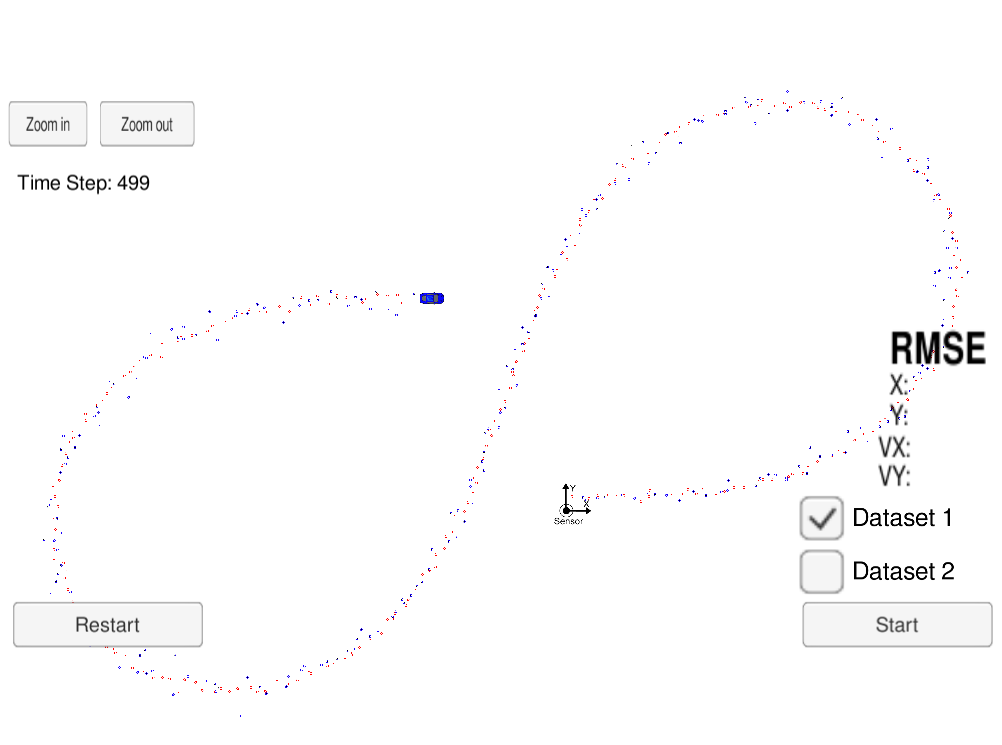
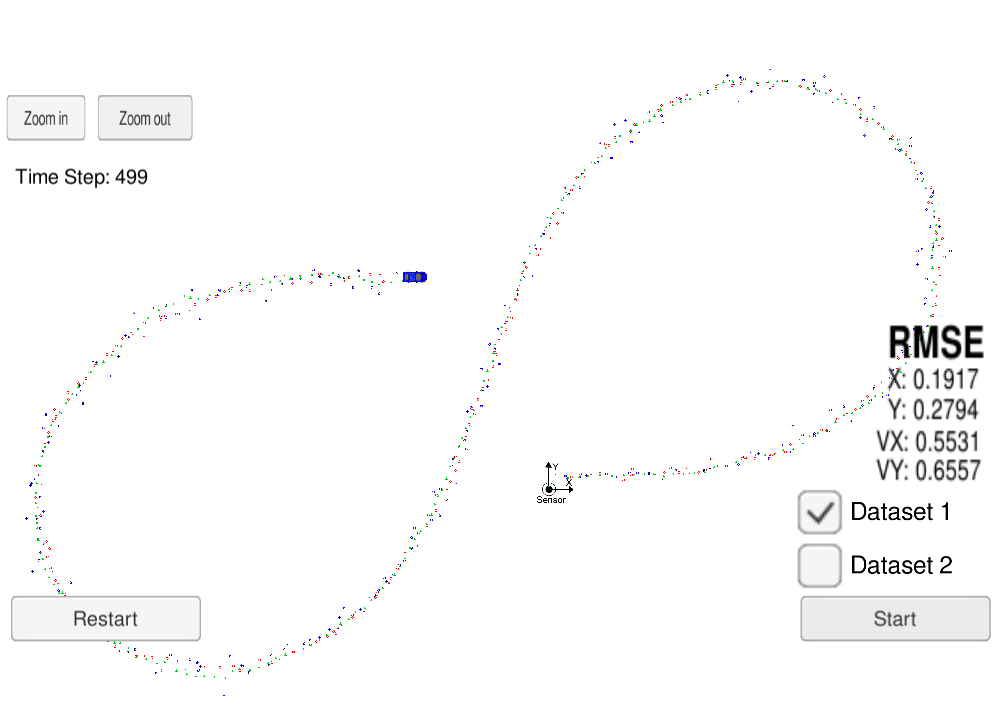
Update output images for radar with rmse values included, and update initialization velocity for radar data

diff --git a/src/FusionEKF.cpp b/src/FusionEKF.cpp
@@ -91,8 +91,8 @@ void FusionEKF::ProcessMeasurement(const MeasurementPackage &measurement_pack) {
       */
       ekf_.x_ << measurement_pack.raw_measurements_[0] * cos(measurement_pack.raw_measurements_[1]), 
                 measurement_pack.raw_measurements_[0] * sin(measurement_pack.raw_measurements_[1]), 
-                0.1, 
-                0.1;
+                0, 
+                0;
     }
     else if (measurement_pack.sensor_type_ == MeasurementPackage::LASER) {
       // TODO: Initialize state.
